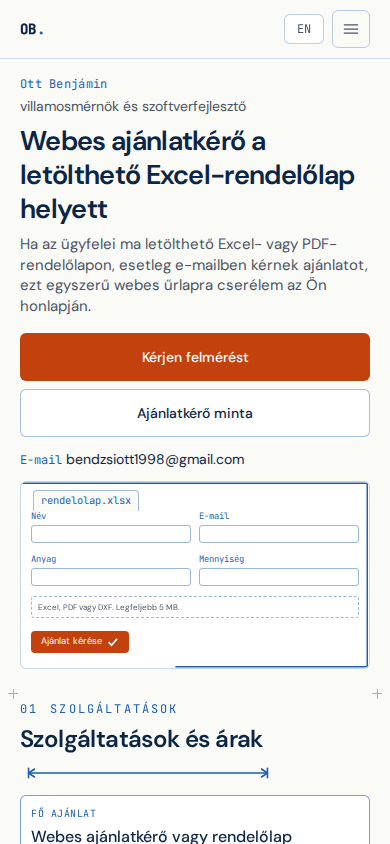
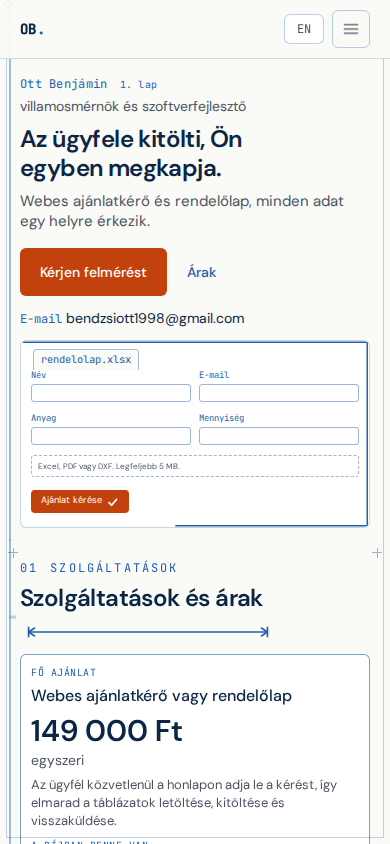
Refresh preview shots and keep the sheet number beside the name
Measure the 390 layout after the offer headline, and recapture the first-screen and mid-scroll frames including reduced motion at 1440.

diff --git a/src/components/sections/Hero.tsx b/src/components/sections/Hero.tsx
@@ -14,7 +14,7 @@ export function Hero() {
       <SignalSegment staticDraw />
       <div className="mx-auto grid w-full max-w-6xl gap-3 px-5 py-3 md:gap-5 md:px-8 md:py-8 lg:grid-cols-12 lg:items-start lg:gap-10">
         <div className="lg:col-span-5">
-          <div className="flex items-baseline justify-between gap-3">
+          <div className="flex items-baseline gap-3">
             <p className="font-mono text-xs tracking-wide text-line">Ott Benjámin</p>
             <p className="font-mono text-[10px] tracking-wide text-line">{hero.sheetLabel}</p>
           </div>
